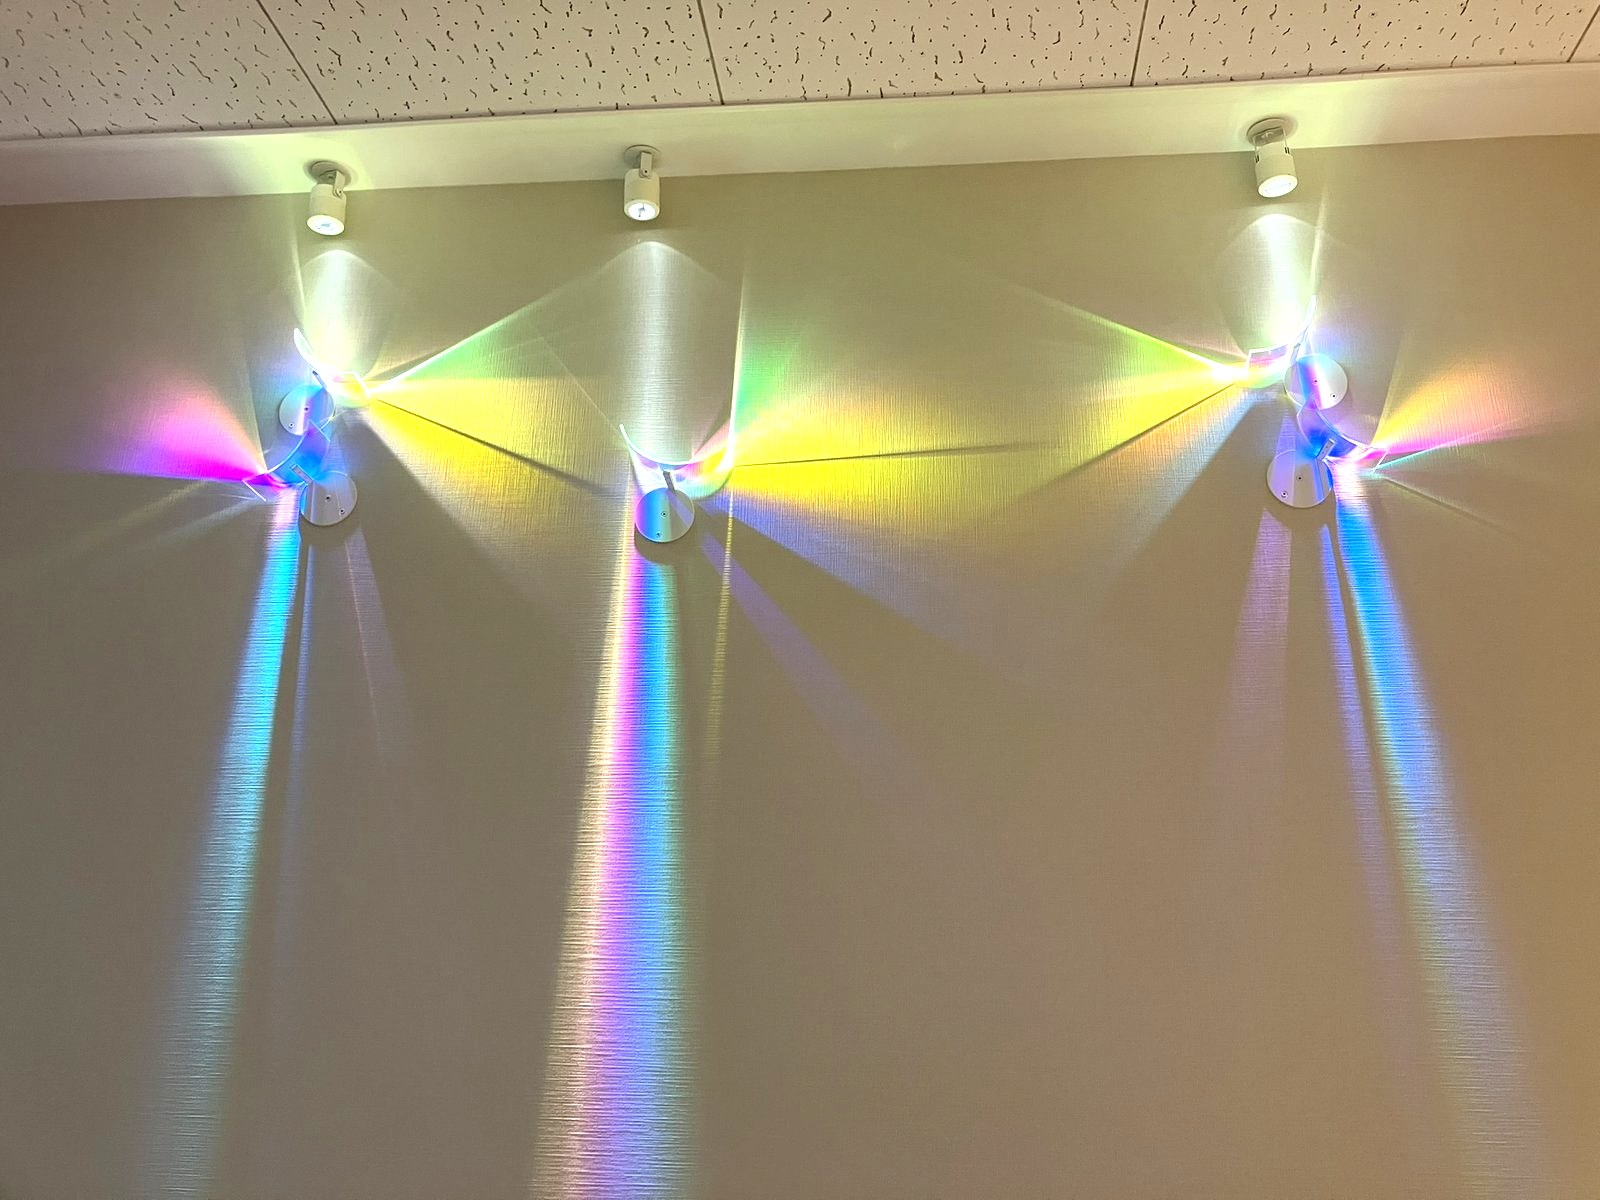
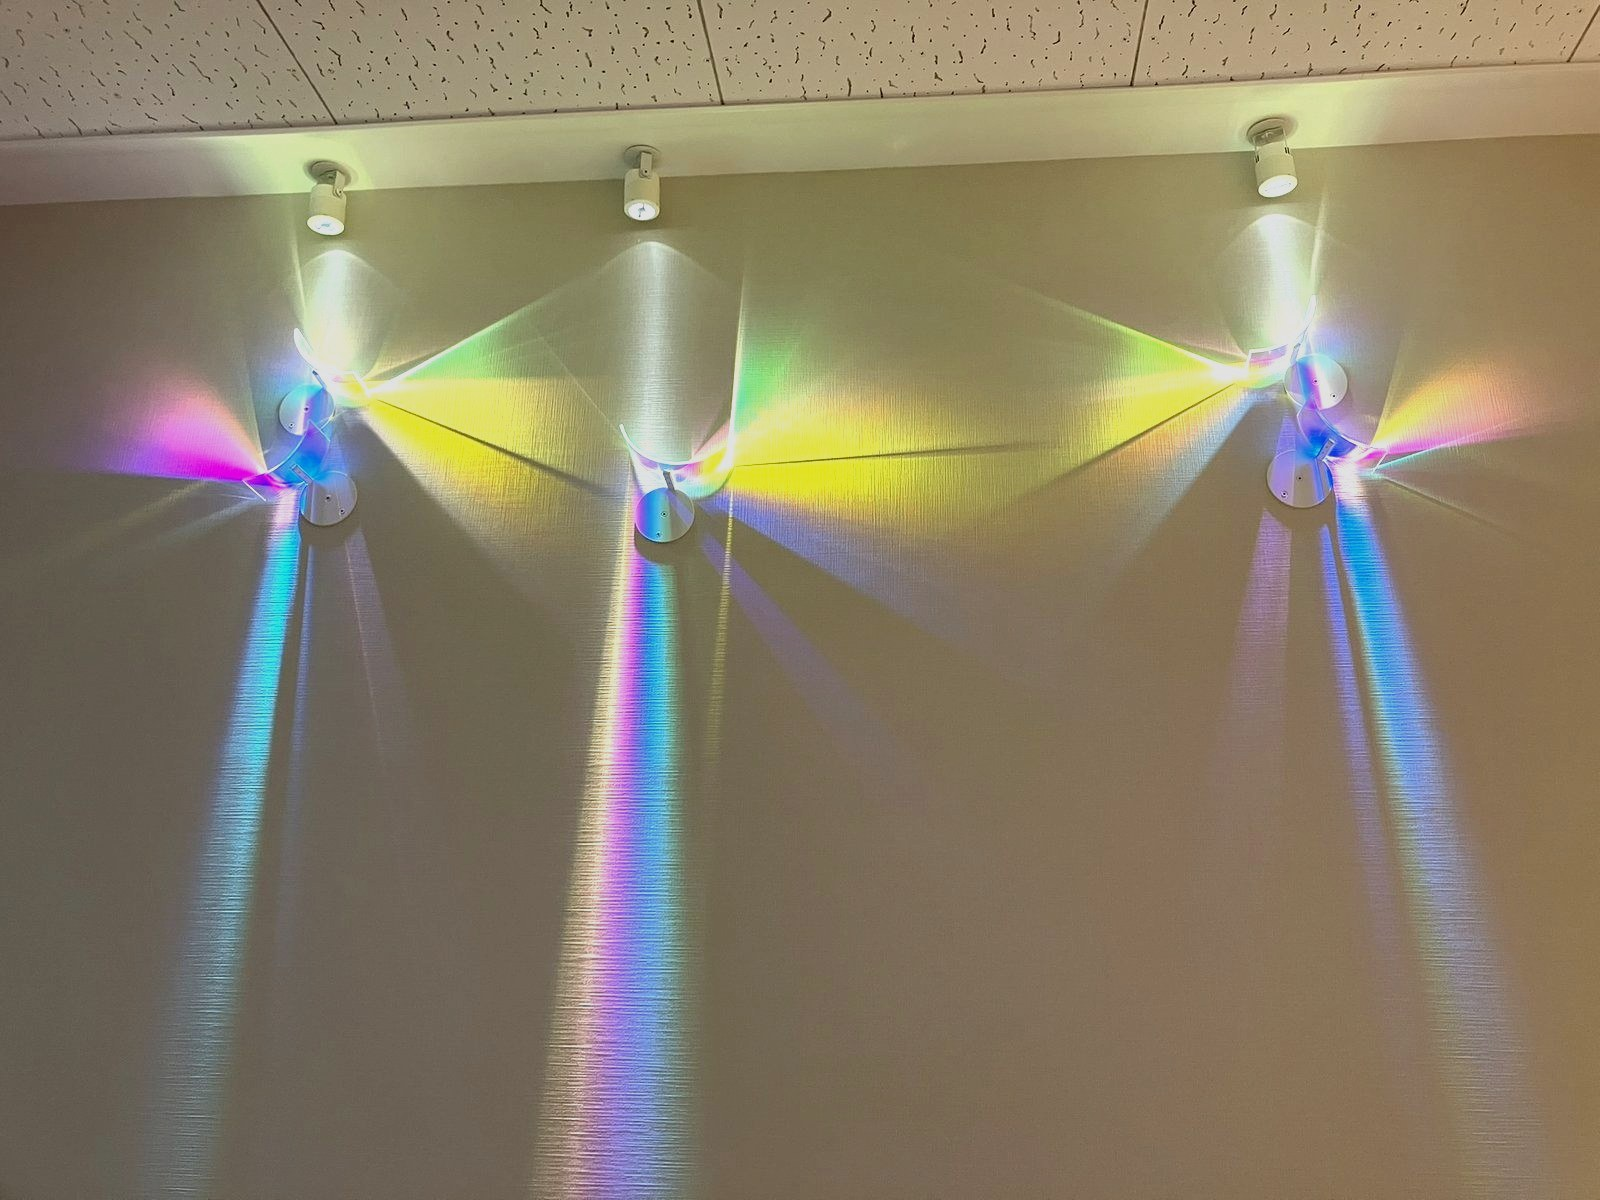
フォント色ルールの統一とクレジット行の壁面輝度再調整
1. クレジット行（撮影者・アートプロデュース等）が本文と同じ色で表示され、
   venue/period/specsなどの補足情報が使うmuted色と統一されていなかった問題を修正。
   content.config.tsにcreditフィールドを追加し、[slug].astroで本文の外側に
   muted・小さめフォントサイズで表示するよう構造化。対象10作品の本文末尾の
   クレジット行をfrontmatterのcredit欄へ移動。

2. 那覇市民病院デイルーム光空間の全20枚+カバー画像について、輝度の
   揃え方を修正。以前は画面全体の平均輝度を揃えていたが、構図によって
   彩色領域の割合が異なるため、壁面自体の明るさは揃っていなかった。
   彩度の低い（無彩色の）画素だけを抽出して壁面の明るさを算出し、
   その値を基準に再調整することで、グリッド上での見た目の統一感を改善。

diff --git a/src/content.config.ts b/src/content.config.ts
@@ -22,6 +22,8 @@ const works = defineCollection({
       .optional(),
     // public/videos 配下への相対パス
     video: z.string().optional(),
+    // 撮影者・アートプロデュース等の第三者クレジット。本文と区別しmutedスタイルで表示。
+    credit: z.string().optional(),
     // Phase 4 で旧サイトの自動生成URL（例: /z）から新URLへ301リダイレクトするための対応表に使う
     oldPath: z.string().optional(),
     // トップページでの並び順。省略時は year の降順。

diff --git a/src/content/works/eureka-moment.md b/src/content/works/eureka-moment.md
@@ -12,6 +12,7 @@ images:
   - /images/works/eureka-moment/03.jpg
   - /images/works/eureka-moment/02.jpg
   - /images/works/eureka-moment/01.jpg
+credit: "企画制作会社：[b]ARTender × 水岸藝術文化研發有限公司\nパース画像・モデル制作：水岸藝術文化研發有限公司"
 ---
 
 台湾に新築された研究施設のエントランスホール吹き抜けへのパブリックアートの提案。神戸ビエンナーレ2009にPioRyoとして出展した「[輪音の森](/works/soundscape-harmony-kobe)」の発展としてデザイン。多岐に渡る研究や多様な視点、また、数えきれない程の挑戦など、科学技術研究の長い歴史と研究者の弛まぬ努力の積み重なりを、上部に伸びる光の層で表現。研究の道は限りのない蒼黒の宇宙を想像するように遠く険しいが、未来をつくる新たな発見や成果へと繋がっていく。
@@ -19,6 +20,3 @@ images:
 かつて古代ギリシアの数学者・発明者アルキメデスが困難な問題を解決し、その発見や喜びを共有する際に発した言葉「ユリイカ」。その訪れを想い、描き絶えることのない研究の灯（ともしび）として研究者たちの道標となり、まだ見ぬ豊かな未来を想像する希望の光になることを願って制作・提案。
 
 サイズ：6750mm、外径Φ750mm、内孔Φ500mm。材質：アルミ合金角管50×50mm切断加工、ドーナツ状（溶接固定）後、積層柱状化（計135層）。外装色：電解着色。重量：463〜530kg。吊り下げ方法：天井からスチールケーブル6〜8本。
-
-企画制作会社：[b]ARTender × 水岸藝術文化研發有限公司  
-パース画像・モデル制作：水岸藝術文化研發有限公司

diff --git a/src/content/works/naha-hospital-dayroom.md b/src/content/works/naha-hospital-dayroom.md
@@ -37,11 +37,9 @@ imageGroups:
       - /images/works/naha-hospital-dayroom/02.jpg
       - /images/works/naha-hospital-dayroom/03.jpg
 video: /videos/works/naha-hospital-dayroom/video.mp4
+credit: "画像：©KENKATO（曇天）、Hajime Shimoyama（晴天）\nアートプロデュース：(株)アートココ"
 ---
 
 沖縄県那覇市に新築された医療施設において、5階層にわたるデイルーム壁面を対象に、光を用いた空間デザインのあり方を実践。伝統的工芸技法と曲面ガラスのもたらす反射と透過の効果による空間デザインを基盤に、ダイクロイックミラーの光学特性と曲面ガラス、さらに調光制御技術を融合させることで、立地環境と調和した新たな光空間の創出を試みた。ガラスの曲面に対する光の入射角の変化によって得られる独自の色彩グラデーションや、階層ごとにミラーの種類・配置・傾斜角を変化させることで持たせた個性、調光プログラムによる光の「揺らぎ」など、動的な生命感と詩的な時間性を与える設計を行った。
 
 環境芸術学会第26回大会にて「曲面ダイクロイックミラーを活用した空間デザインの研究－那覇市民病院デイルームの事例－」として口頭発表。
-
-画像：©KENKATO（曇天）、Hajime Shimoyama（晴天）  
-アートプロデュース：(株)アートココ

diff --git a/src/content/works/flowers-behind-the-back-of-the-universe.md b/src/content/works/flowers-behind-the-back-of-the-universe.md
@@ -18,10 +18,9 @@ images:
   - /images/works/flowers-behind-the-back-of-the-universe/10.jpg
   - /images/works/flowers-behind-the-back-of-the-universe/11.jpg
 oldPath: /flowers-behind-the-back-of-the-universe
+credit: "Photo：Polytech Festival of Science, Art & Technology (Moscow, Russia)"
 ---
 
 イベント来場者とのワークショップ開催、及びその成果とのコラボレーションによる作品発表。「宇宙とアート」と日本の伝統文化である「おりがみ」を組み合わせたインスタレーションをデザイン。モスクワの裏側－地球を軸にして対にある星空－を県立ぐんま天文台の協力によってシミュレーション、解析し、来場者が「日常では見えない星空」を想像して体験できるプロジェクトとして展開した。
 
 「68th International Astronautical Congress 2017」（アデレード　オーストラリア）では『FLOWERS BEHIND THE BACK OF THE UNIVERSE: A COSMIC ART PROJECT EXPLORING THE INVISIBLE』（査読付・共同）として、宇宙に確かに存在するが人間の目に見えない美しさの要素についての探求と、人間と人間の間の新しいコミュニケーション手段の試みについての発表を行った。
-
-Photo：Polytech Festival of Science, Art & Technology (Moscow, Russia)

diff --git a/src/content/works/designing-a-entrance-garden-for-the-ltd.md b/src/content/works/designing-a-entrance-garden-for-the-ltd.md
@@ -11,15 +11,9 @@ images:
   - /images/works/designing-a-entrance-garden-for-the-ltd/03.jpg
   - /images/works/designing-a-entrance-garden-for-the-ltd/04.jpg
 oldPath: /k-1
+credit: "建築主：川崎重工業 株式会社 航空宇宙カンパニー\n建築設計：実施設計 株式会社 大林組　基本設計 株式会社 山下設計\n施工：株式会社 大林組\n企画：株式会社 アートココ\nサイン：稲菱テクニカ株式会社\n撮影：加藤 健、株式会社エスエス東京支店 走出 直道"
 ---
 
 企業の歴史、記憶を象徴するランドスケープのデザイン。計画地内に旧社屋の外形形状を模したラインを石で埋設し、その間をグランドカバーと樹木にて調和させるデザインを計画。
 
 「第52回日本サインデザイン賞」銅賞（共同）。
-
-建築主：川崎重工業 株式会社 航空宇宙カンパニー  
-建築設計：実施設計 株式会社 大林組　基本設計 株式会社 山下設計  
-施工：株式会社 大林組  
-企画：株式会社 アートココ  
-サイン：稲菱テクニカ株式会社  
-撮影：加藤 健、株式会社エスエス東京支店 走出 直道

diff --git a/src/content/works/cosmosuki.md b/src/content/works/cosmosuki.md
@@ -12,10 +12,9 @@ images:
   - /images/works/cosmosuki/02.jpg
   - /images/works/cosmosuki/03.jpg
 oldPath: /cosmosuki
+credit: Photo：長谷川 智紀
 ---
 
 宇宙は一つではなく同時にいくつも存在しているという「多元宇宙論」をテーマに、超立方体と日常によって生まれる多元宇宙をビエンナーレ会場に出現させます。鑑賞者は新たな宇宙のイメージと同時に、自身にも内包されている宇宙を体感していきます。（コンセプト）
 
 震災20年を乗り越えてきた神戸の文化の力を結集し「スキ。Suki」をテーマに開催。2007年から2009、2011、2013年と毎回受賞してきたことから招待作家として出展。地域活性とアートの関係性を探る研究の一環として、製造業共同体「高崎Art製造Projectカロエ」とのコラボレーションとして制作・施工。
-
-Photo：長谷川 智紀

diff --git a/src/content/works/kagoshima-t-hospital-elevator-hall.md b/src/content/works/kagoshima-t-hospital-elevator-hall.md
@@ -21,11 +21,9 @@ images:
   - /images/works/kagoshima-t-hospital-elevator-hall/13.jpg
   - /images/works/kagoshima-t-hospital-elevator-hall/14.jpg
 oldPath: /t
+credit: "画像：©KENKATO\nアートプロデュース：(株)アートココ"
 ---
 
 医療空間における心理的環境の改善を目的に、鹿児島の伝統工芸である薩摩切子と光の制御を組み合わせて構想・設置したパブリックアート。
 
 その土地ならではの素材を生かした地域に根差すパブリックアートとして、一度は廃れながらも、鹿児島県の伝統的工芸として復興した地場の技、「薩摩切子」を主役に活用した光による空間演出。伝統的な技法を尊重しその特徴を生かしながら光と薩摩切子の関わりを研究し、新たな空間演出効果の具現化を目指した。
-
-画像：©KENKATO  
-アートプロデュース：(株)アートココ

diff --git a/src/content/works/soundscape-harmony-kobe.md b/src/content/works/soundscape-harmony-kobe.md
@@ -12,8 +12,7 @@ images:
   - /images/works/soundscape-harmony-kobe/02.jpg
 video: /videos/works/soundscape-harmony-kobe/video.mp4
 oldPath: /8
+credit: Photo：長谷川 智紀
 ---
 
 目には見えない「音」のイメージを、光学的表現によって視覚化した作品。反射率の高いガラスカガミで張り巡らせた無限反射空間内に、一方向の透過性という特性を持つ、厚さ5mmのプラスティックダンボールをランダムに積層した「柱」を設置。柱自体を回転させる事で、柱内部の中空部分から発する、LED照明の「輪状」の光が有機的に明滅する。さらに、鏡面反射によって増幅された光と、神戸の街からサンプリングされたホワイトノイズによって、鑑賞者の聴覚と視覚を刺激し、感性の共振を促す。
-
-Photo：長谷川 智紀

diff --git a/src/content/works/i-ro-ha-cube.md b/src/content/works/i-ro-ha-cube.md
@@ -13,10 +13,9 @@ images:
   - /images/works/i-ro-ha-cube/03.jpg
   - /images/works/i-ro-ha-cube/04.jpg
 oldPath: /10
+credit: Photo：長谷川 智紀
 ---
 
 図と地の反転によって図像学的に構成した作品、「[数隙](/works/rubins-number)」に物語を与えた展開作品。日本語全ての直音を一回だけ使って整理された「いろはうた」をモチーフに、言葉が湧き出る前の、混沌とした「言葉の源」をイメージし作品化。
 
 2009年4月、「伊勢神宮展」（京都高島屋グランドホール）にて、ご神宝やご装束、遷宮絵巻、祭器具などとともに展示。
-
-Photo：長谷川 智紀

diff --git a/src/content/works/designing-a-relief-for-the-hospital.md b/src/content/works/designing-a-relief-for-the-hospital.md
@@ -12,8 +12,7 @@ images:
   - /images/works/designing-a-relief-for-the-hospital/02.jpg
   - /images/works/designing-a-relief-for-the-hospital/03.jpg
 oldPath: /n
+credit: 撮影：加藤 健
 ---
 
 市民向け一般病院の待合吹き抜け壁面に設置。蛍光塗料による反射によって作品自体の影に「色」を与え、「平面と空間」「実体と虚構」の狭間をたゆたう存在感を表現。
-
-撮影：加藤 健

diff --git a/src/content/works/toki-no-shizuku.md b/src/content/works/toki-no-shizuku.md
@@ -11,8 +11,7 @@ images:
   - /images/works/toki-no-shizuku/02.jpg
   - /images/works/toki-no-shizuku/03.jpg
 oldPath: /1638ef0f858916
+credit: 撮影：加藤 健
 ---
 
 「作品」の存在意義として一般的に考えられている「インパクト」や「個性」などによって得られる存在感から離れ、「さりげない」ということについて着目し、「雫」をテーマに具現化。
-
-撮影：加藤 健
